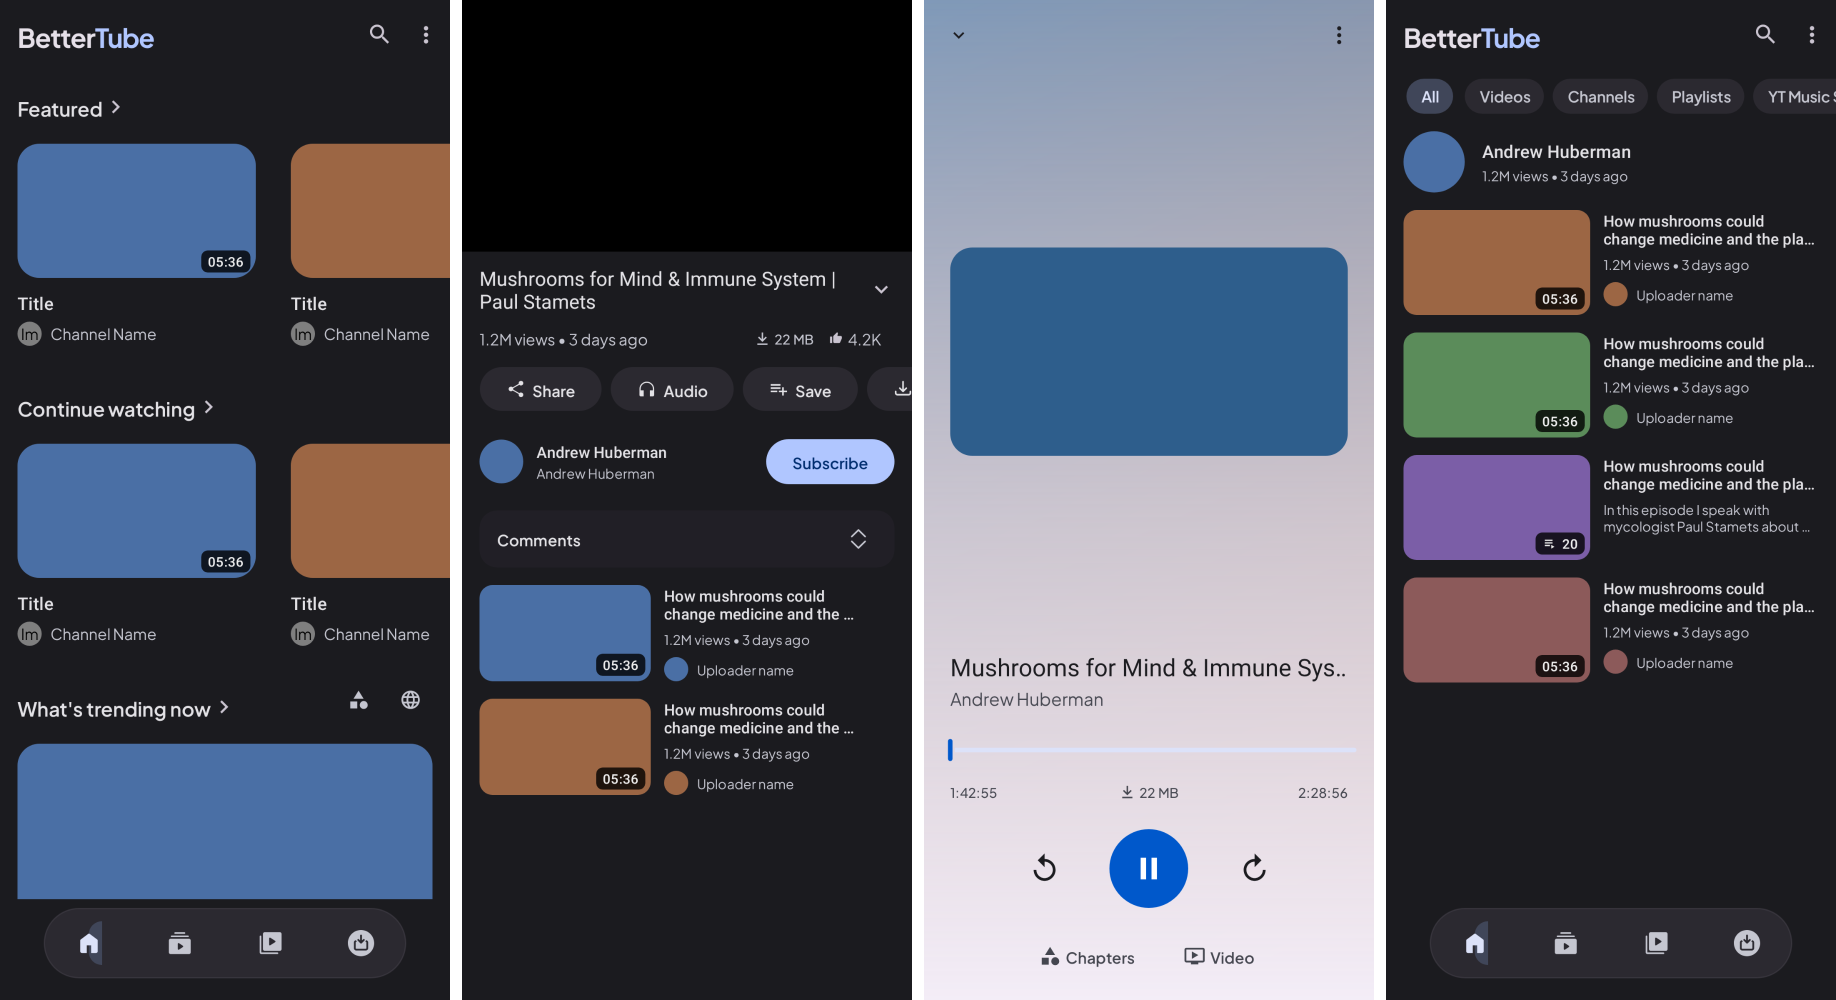
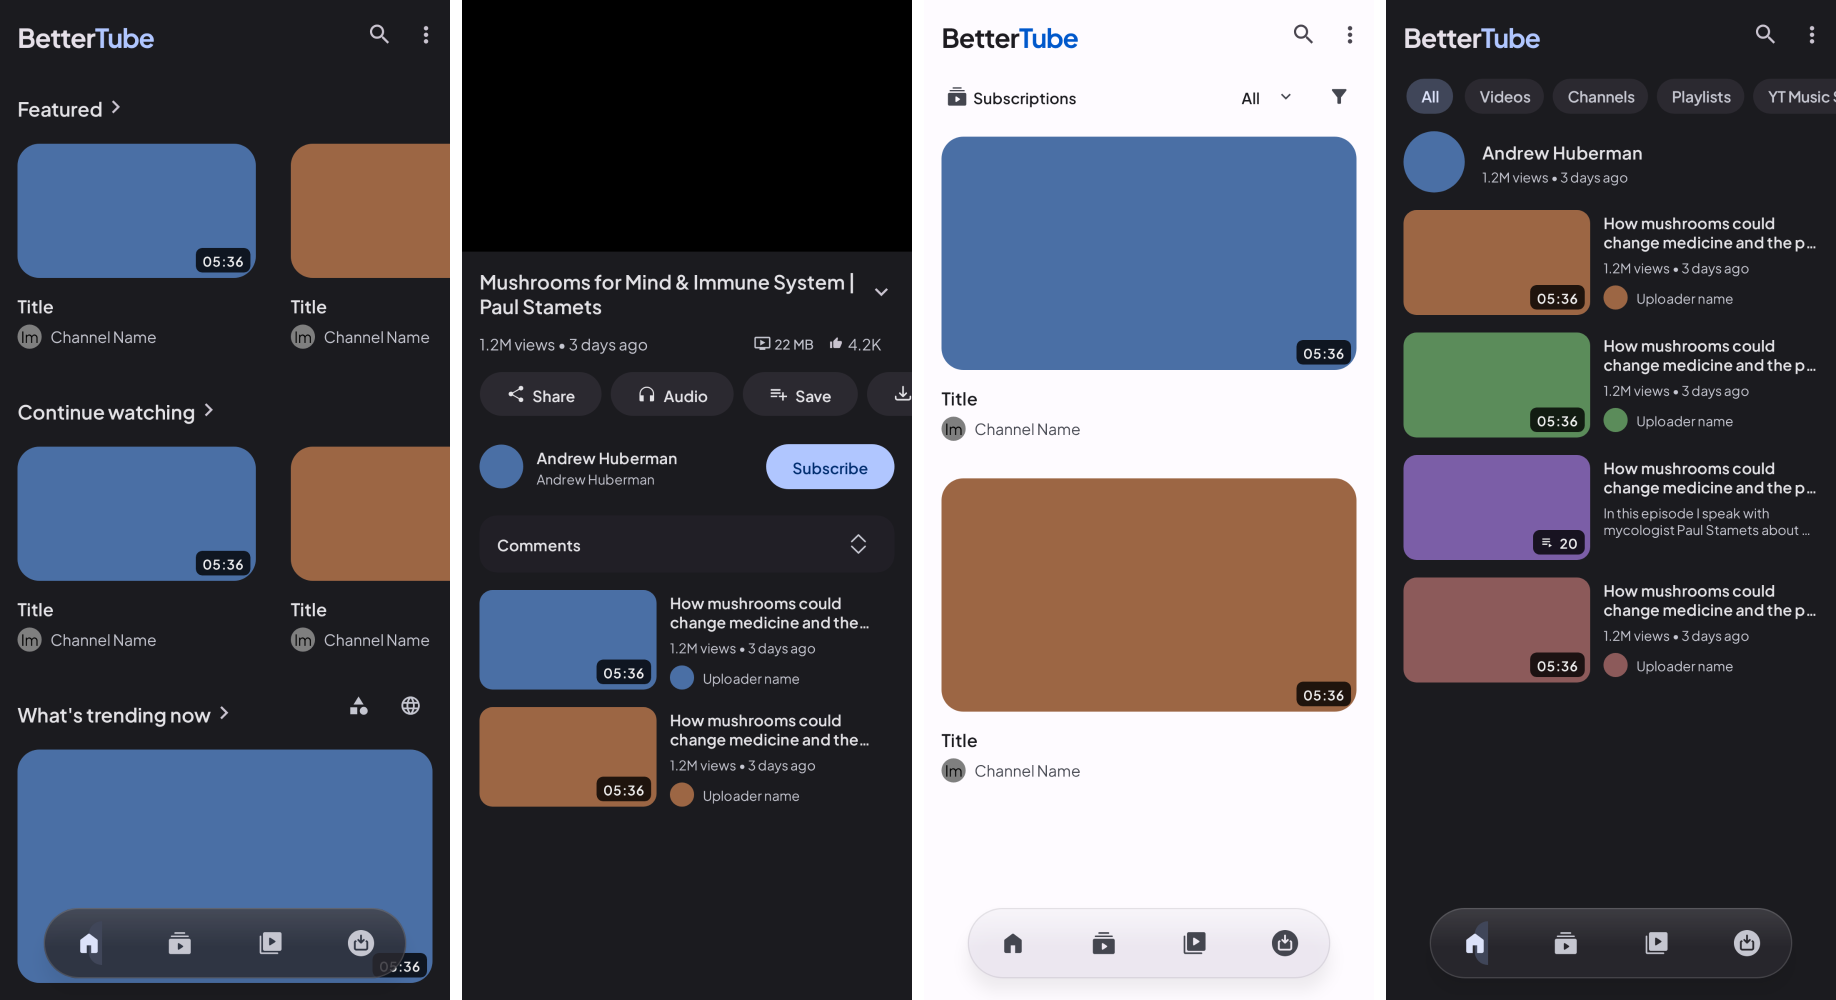
docs: README for the redesign, with changelog
Update the README to match the app as it is now (data label, floating
dock, opening videos, update-in-place builds) and add a changelog of
everything done for BetterTube so far. New preview image showing the
floating dock.

Claude-Session: https://claude.ai/code/session_01Ti13LANzFZxUdYcck8zNTS

diff --git a/README.md b/README.md
@@ -14,9 +14,9 @@ BetterTube keeps everything LibreTube does and focuses on two things: audio-only
 > Please report BetterTube problems [here](../../issues), not to LibreTube.
 
 <div align="center">
-  <img src="assets/readme/bettertube-preview.png" width="90%" alt="BetterTube home feed in dark mode and the player page in light and dark mode">
+  <img src="assets/readme/bettertube-preview.png" width="90%" alt="BetterTube: Home with the floating dock, the video page, Subscriptions in light mode and Search">
   <br>
-  <sub>Rendered from the app's layouts: Home, video page, audio player (light) and search. Coloured boxes stand in for thumbnails and channel pictures.</sub>
+  <sub>Rendered from the app's layouts: Home, video page, Subscriptions (light) and Search. Coloured boxes stand in for thumbnails and channel pictures.</sub>
 </div>
 
 ## What's different from LibreTube
@@ -24,11 +24,13 @@ BetterTube keeps everything LibreTube does and focuses on two things: audio-only
 | | LibreTube | BetterTube |
 |---|---|---|
 | **Switching to audio-only mid-video** | Keeps downloading the video stream in the background, wasting data and memory | Stops requesting video right away and only downloads audio |
-| **Checking what's being downloaded** | Not possible in the app | Tap the data pill in the player to see audio vs. video data live |
-| **Audio player** | Rows of buttons; play button that resizes and shifts its neighbours | Minimal: fixed-size play button, Chapters and Video at hand, the rest in ⋮ |
-| **Loading indicator** | Shape-shifting "blob" in a filled circle | Slim round spinner in your accent colour |
-| **Look and feel** | Material 3 Expressive defaults | Own design: Plus Jakarta Sans typeface, floating dock, flat cards on one 16dp grid |
+| **Seeing what's downloaded** | Not possible in the app | A small data label in both players; tap it for an audio vs. video breakdown |
+| **Opening a video** | Black screen with a spinner | The thumbnail you tapped stays in place and fades into the video |
+| **Audio player** | Rows of buttons; play button that resizes and shifts its neighbours | Minimal: round fixed-size play button, Chapters and Video at hand, the rest in ⋮, blurred-artwork backdrop |
+| **Navigation** | Full-width bottom bar | Floating, glassy, icons-only dock; content flows underneath |
+| **Look and feel** | Material 3 Expressive defaults | Own design: Plus Jakarta Sans, flat cards on one 16dp grid, quiet secondary text |
 | **Motion** | Default fades | Screens rise in on emphasized easing, lists ease in item by item, cards respond to touch |
+| **Loading** | Spinners | Card-shaped placeholders that gently pulse |
 
 ### 🎧 Audio-only mode that actually saves data
 
@@ -37,36 +39,10 @@ In LibreTube, if you start a video and then switch to audio-only, the app keeps 
 
 BetterTube tells the server to stop sending video as soon as video is turned off, and safely ignores any video data that was already on its way. Switching back to video works as before.
 
-### 📊 See it for yourself: the data pill
+### 📊 See it for yourself: the data label
 
-<img src="assets/readme/bettertube-audio-player.png" width="300" align="right" alt="Audio player with the data usage breakdown expanded">
-
-Both players show a small pill with the data used so far for the current video: below the progress bar in the audio player, and under the title in the video player.
-Tap it to expand an inline breakdown, and tap again to hide it. It shows, live:
-
-- how much **audio** and **video** data has been received
-- a status line such as *"Audio only · no video data for 42 s"*
-
-Switch to audio-only and the video number stops growing within a few seconds; the pill then reads *"… · audio only"*.
-
-<br clear="right">
-
-### ✨ Design
-
-- **Typeface:** Plus Jakarta Sans throughout, on a full Material 3 type scale
-- **Floating dock:** a rounded, icons-only navigation bar that floats above the content
-- **Header:** the BetterTube wordmark scrolls away with the content and returns when you scroll up
-- **Motion:** new screens rise into place, lists ease in item by item, and every card and row gives a gentle press response
-- **Audio player ambience:** the artwork, blurred (Android 12+), tints the whole player
-
-- Slim, round-capped loading spinner (white when shown over video)
-- Slimmer bottom navigation bar on a soft tinted surface
-- Feed cards with wider margins, rounder 20dp thumbnails and no drop shadows
-- List rows aligned to the same 16dp margin, medium-weight titles, softer secondary text
-- Minimal audio player: no previous/next buttons, a fixed-size play button that never shifts its neighbours, Chapters and Video as the only quick actions, and queue, speed, sleep timer, autoplay and sharing in the ⋮ menu
-- Compact pill buttons and a tidier channel row on the video player page
-- Watch-progress bar follows your chosen accent colour
-- Works in light and dark mode with all of LibreTube's colour themes
+Both players show a small label with the data used so far for the current video: a 🎬 video icon on the video page (next to the view count) and a 🔊 speaker icon in the audio player (between the timestamps).
+Tap it for an inline breakdown of **audio** vs. **video** data; tap again to hide it. After switching to audio-only, the breakdown confirms it, e.g. *"Audio only · no video data for 42 s"*, and the video number stops growing.
 
 ## Download
 
@@ -77,7 +53,50 @@ There are no official releases yet. Every push is built automatically by GitHub 
 3. Unzip it and install `app-debug.apk`. Android may ask you to allow installs from your browser or file manager.
 
 > [!NOTE]
-> These are debug builds. They install as **BetterTube** alongside the official LibreTube app instead of replacing it.
+> - These are debug builds. They install as **BetterTube** alongside the official LibreTube app instead of replacing it.
+> - All builds are signed with the same key, so a new build installs as an **update** and keeps your data. The build number is shown in Android's app info (e.g. version `32.1-ci.14`).
+> - Builds from before 19 November 2026 used a different key each time: uninstall that version once (export a backup first), then install the new one.
+
+## Changelog
+
+### 19 November 2026: the BetterTube redesign
+
+**Audio-only and data**
+- Switching to audio-only mid-video now really stops video downloads (the SABR client stops requesting video and ignores video data already on its way)
+- Data label in both players (🎬 / 🔊 icon + total); tap for a live audio vs. video breakdown
+
+**Design**
+- Plus Jakarta Sans typeface across the whole app, on the full Material 3 type scale
+- Floating, glassy, icons-only bottom dock: translucent surface, soft sheen, light-catching rim and shadow; content scrolls underneath it
+- Header (bold BetterTube wordmark) scrolls fully away with the content and returns when scrolling up
+- New feed cards: large rounded thumbnails, full-width titles, one quiet line with a small avatar, channel, views and age
+- Flat, outline-free chips; quiet empty states; one filled primary action per screen; everything on a 16dp grid
+- Redesigned screens: Home, Subscriptions, Library, Search, Channel, Playlist, video page, comments, bottom sheets, dialogs and settings headings
+- Slim round loading spinner, and pulsing card-shaped placeholders on Home and Subscriptions
+
+**Motion**
+- New screen transitions: screens rise into place on emphasized easing; going back mirrors it
+- Lists ease in item by item; cards and rows give a gentle press response
+- Opening a video: the tapped thumbnail (including DeArrow thumbnails) stays in place and fades into the first frame
+
+**Players**
+- Minimal audio player: no previous/next buttons, a round play button that never shifts its neighbours, Chapters and Video as the only quick actions; queue, speed, sleep timer, autoplay and sharing in ⋮; blurred-artwork backdrop (Android 12+)
+- Video page: actions are Share, Audio, Save, Download (PiP and Screenshot removed; PiP still works when leaving the app); quiet full-width Comments row
+- Video controls: soft gradients instead of a flat dark overlay; autoplay moved from the top-bar switch into the ⚙ menu; round play button
+- Mini player is a floating rounded card above the dock (video and audio)
+
+**Subscriptions and Library**
+- Subscriptions: one header row with the channel list, a channel-group selector (incl. "Edit groups") and the filter
+- Library: compact Watch history and Downloads shortcuts
+
+**Fixes**
+- Fixed a minimised player sometimes switching to another video when tapping the screen behind it
+- Fixed the data label showing "audio only" while a video was playing
+
+**Under the hood**
+- App renamed to BetterTube
+- Ships with a set of default settings, applied once on first start without overwriting existing ones
+- Debug builds are signed with a shared key so new builds install as updates; CI uploads the APK for every push
 
 ## Everything else from LibreTube
 
